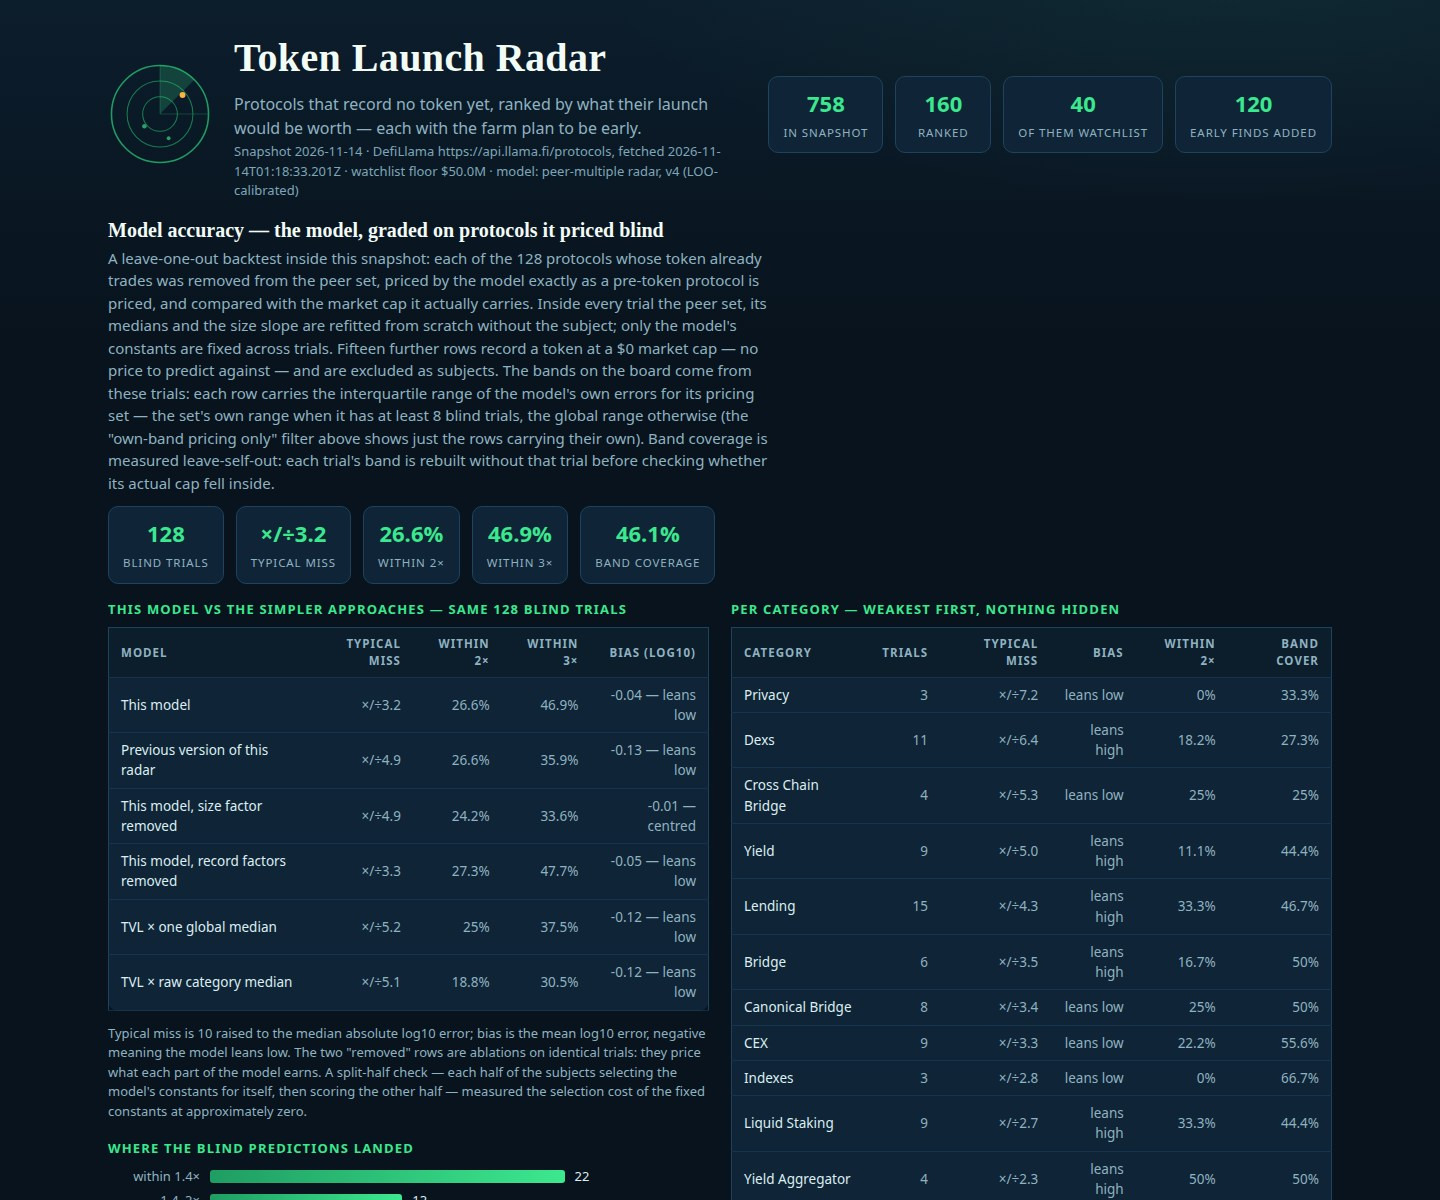
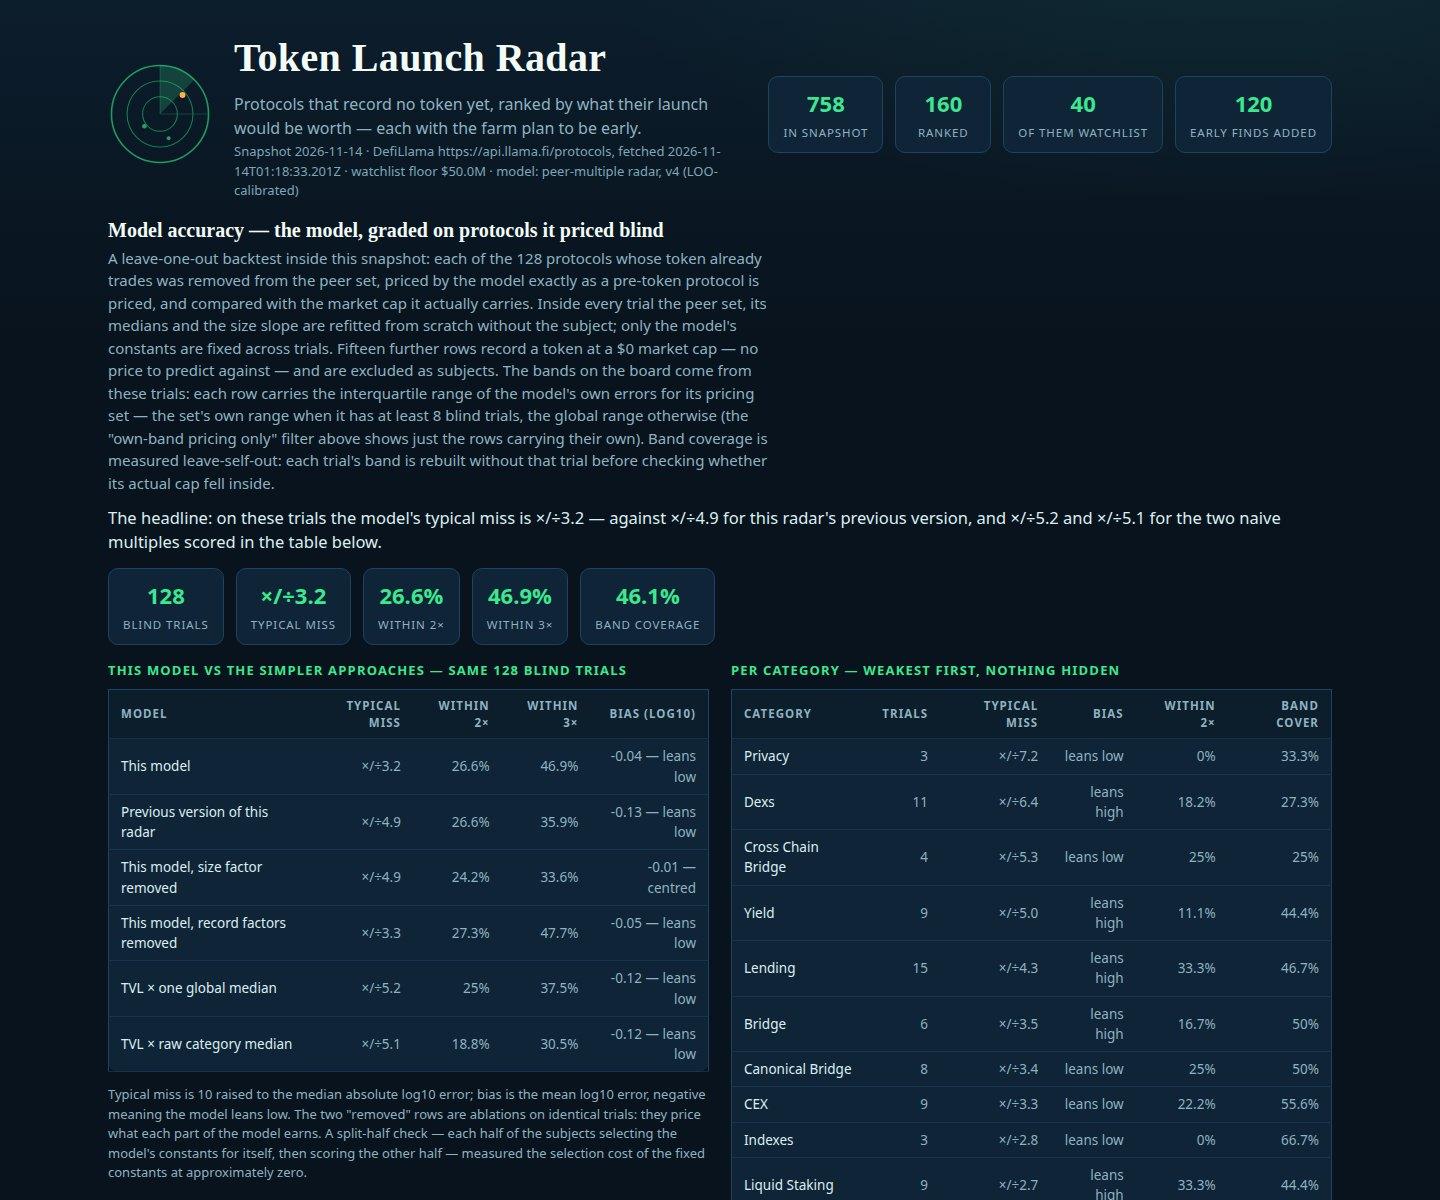
Cycle 5 (post-audit): final hostile pairwise critique — verdict holds; accuracy view gains a plain-language headline line above the stat cards, weak figures untouched; two layout attacks rejected with reasons in NOTES

diff --git a/dashboard/index.html b/dashboard/index.html
@@ -87,6 +87,7 @@
   <section class="live" id="accuracy">
     <h2>Model accuracy — the model, graded on protocols it priced blind</h2>
     <p class="live-note">A leave-one-out backtest inside this snapshot: each of the 128 protocols whose token already trades was removed from the peer set, priced by the model exactly as a pre-token protocol is priced, and compared with the market cap it actually carries. Inside every trial the peer set, its medians and the size slope are refitted from scratch without the subject; only the model's constants are fixed across trials. Fifteen further rows record a token at a $0 market cap — no price to predict against — and are excluded as subjects. The bands on the board come from these trials: each row carries the interquartile range of the model's own errors for its pricing set — the set's own range when it has at least 8 blind trials, the global range otherwise (the "own-band pricing only" filter above shows just the rows carrying their own). Band coverage is measured leave-self-out: each trial's band is rebuilt without that trial before checking whether its actual cap fell inside.</p>
+    <p class="acc-lead">The headline: on these trials the model's typical miss is ×/÷3.2 — against ×/÷4.9 for this radar's previous version, and ×/÷5.2 and ×/÷5.1 for the two naive multiples scored in the table below.</p>
     <div class="acc-stats" id="acc-stats"></div>
     <div class="acc-cols">
       <div class="acc-box">

diff --git a/dashboard/app.css b/dashboard/app.css
@@ -159,6 +159,7 @@ body.accuracy-mode #accuracy { margin-top: 14px; }
 
 /* accuracy section */
 .acc-stats { display: flex; flex-wrap: wrap; gap: 12px; margin-bottom: 16px; }
+.acc-lead { font-size: 16.5px; line-height: 1.45; color: var(--ink); margin: 4px 0 14px; }
 .acc-cols { display: grid; grid-template-columns: 1fr 1fr; gap: 22px; align-items: start; }
 .acc-h { margin: 0 0 8px; font-size: 13px; text-transform: uppercase; letter-spacing: 0.09em; color: var(--phosphor); }
 .acc-box .acc-h:not(:first-child) { margin-top: 18px; }

diff --git a/NOTES.md b/NOTES.md
@@ -290,6 +290,30 @@ kinds), and the totals line answers the concrete part of the charge.
   least 17 of the top 20 — the production constants sit at the measured
   optimum of their neighbourhood and the ranking is not a tuning
   artefact. No constant was changed.
+- **Final hostile pairwise critique** (Claude Sonnet, judging the final
+  screenshots and README against a generic polished rival: bright
+  board-only dashboard, TVL × category median, point estimates, no
+  backtest). Verdict: this entry wins, on the strength of the graded
+  accuracy view. Three attacks, and what was done about them:
+  (1) "The headline accuracy numbers read weak before the baselines
+  register" — sustained as a framing point. The accuracy view now
+  carries one plain-language headline line directly above the stat
+  cards (typical miss ×/÷3.2 against ×/÷4.9 for the previous version
+  and ×/÷5.2 / ×/÷5.1 for the naive multiples). Every weak figure —
+  the 26.6% within-2×, the 46.1% coverage, the Dexs row — stays
+  exactly where it was.
+  (2) "Screenshot 1 is front-loaded with text; move the generosity
+  caveat to a footnote and the table up" — rejected. The model strip
+  is the formula disclosure the board is priced by, and its placement
+  above the table was itself a fix from an earlier judge round; the
+  caveat belongs where the values it qualifies are introduced, not in
+  a footnote. Cycle 1 of this pass already answered the density half
+  of the point by showing the full top 10.
+  (3) "Show 20+ rows in the board screenshot" — not possible honestly:
+  the 1440px long-side limit is already spent on the top 10 at
+  legible density. The README reorder it proposed (pitch, headline
+  numbers, detail later) is the order the README already has after
+  the "record, up front" section was added in this pass.
 
 ## Independent audit (2026-11-26) — corrections
 
